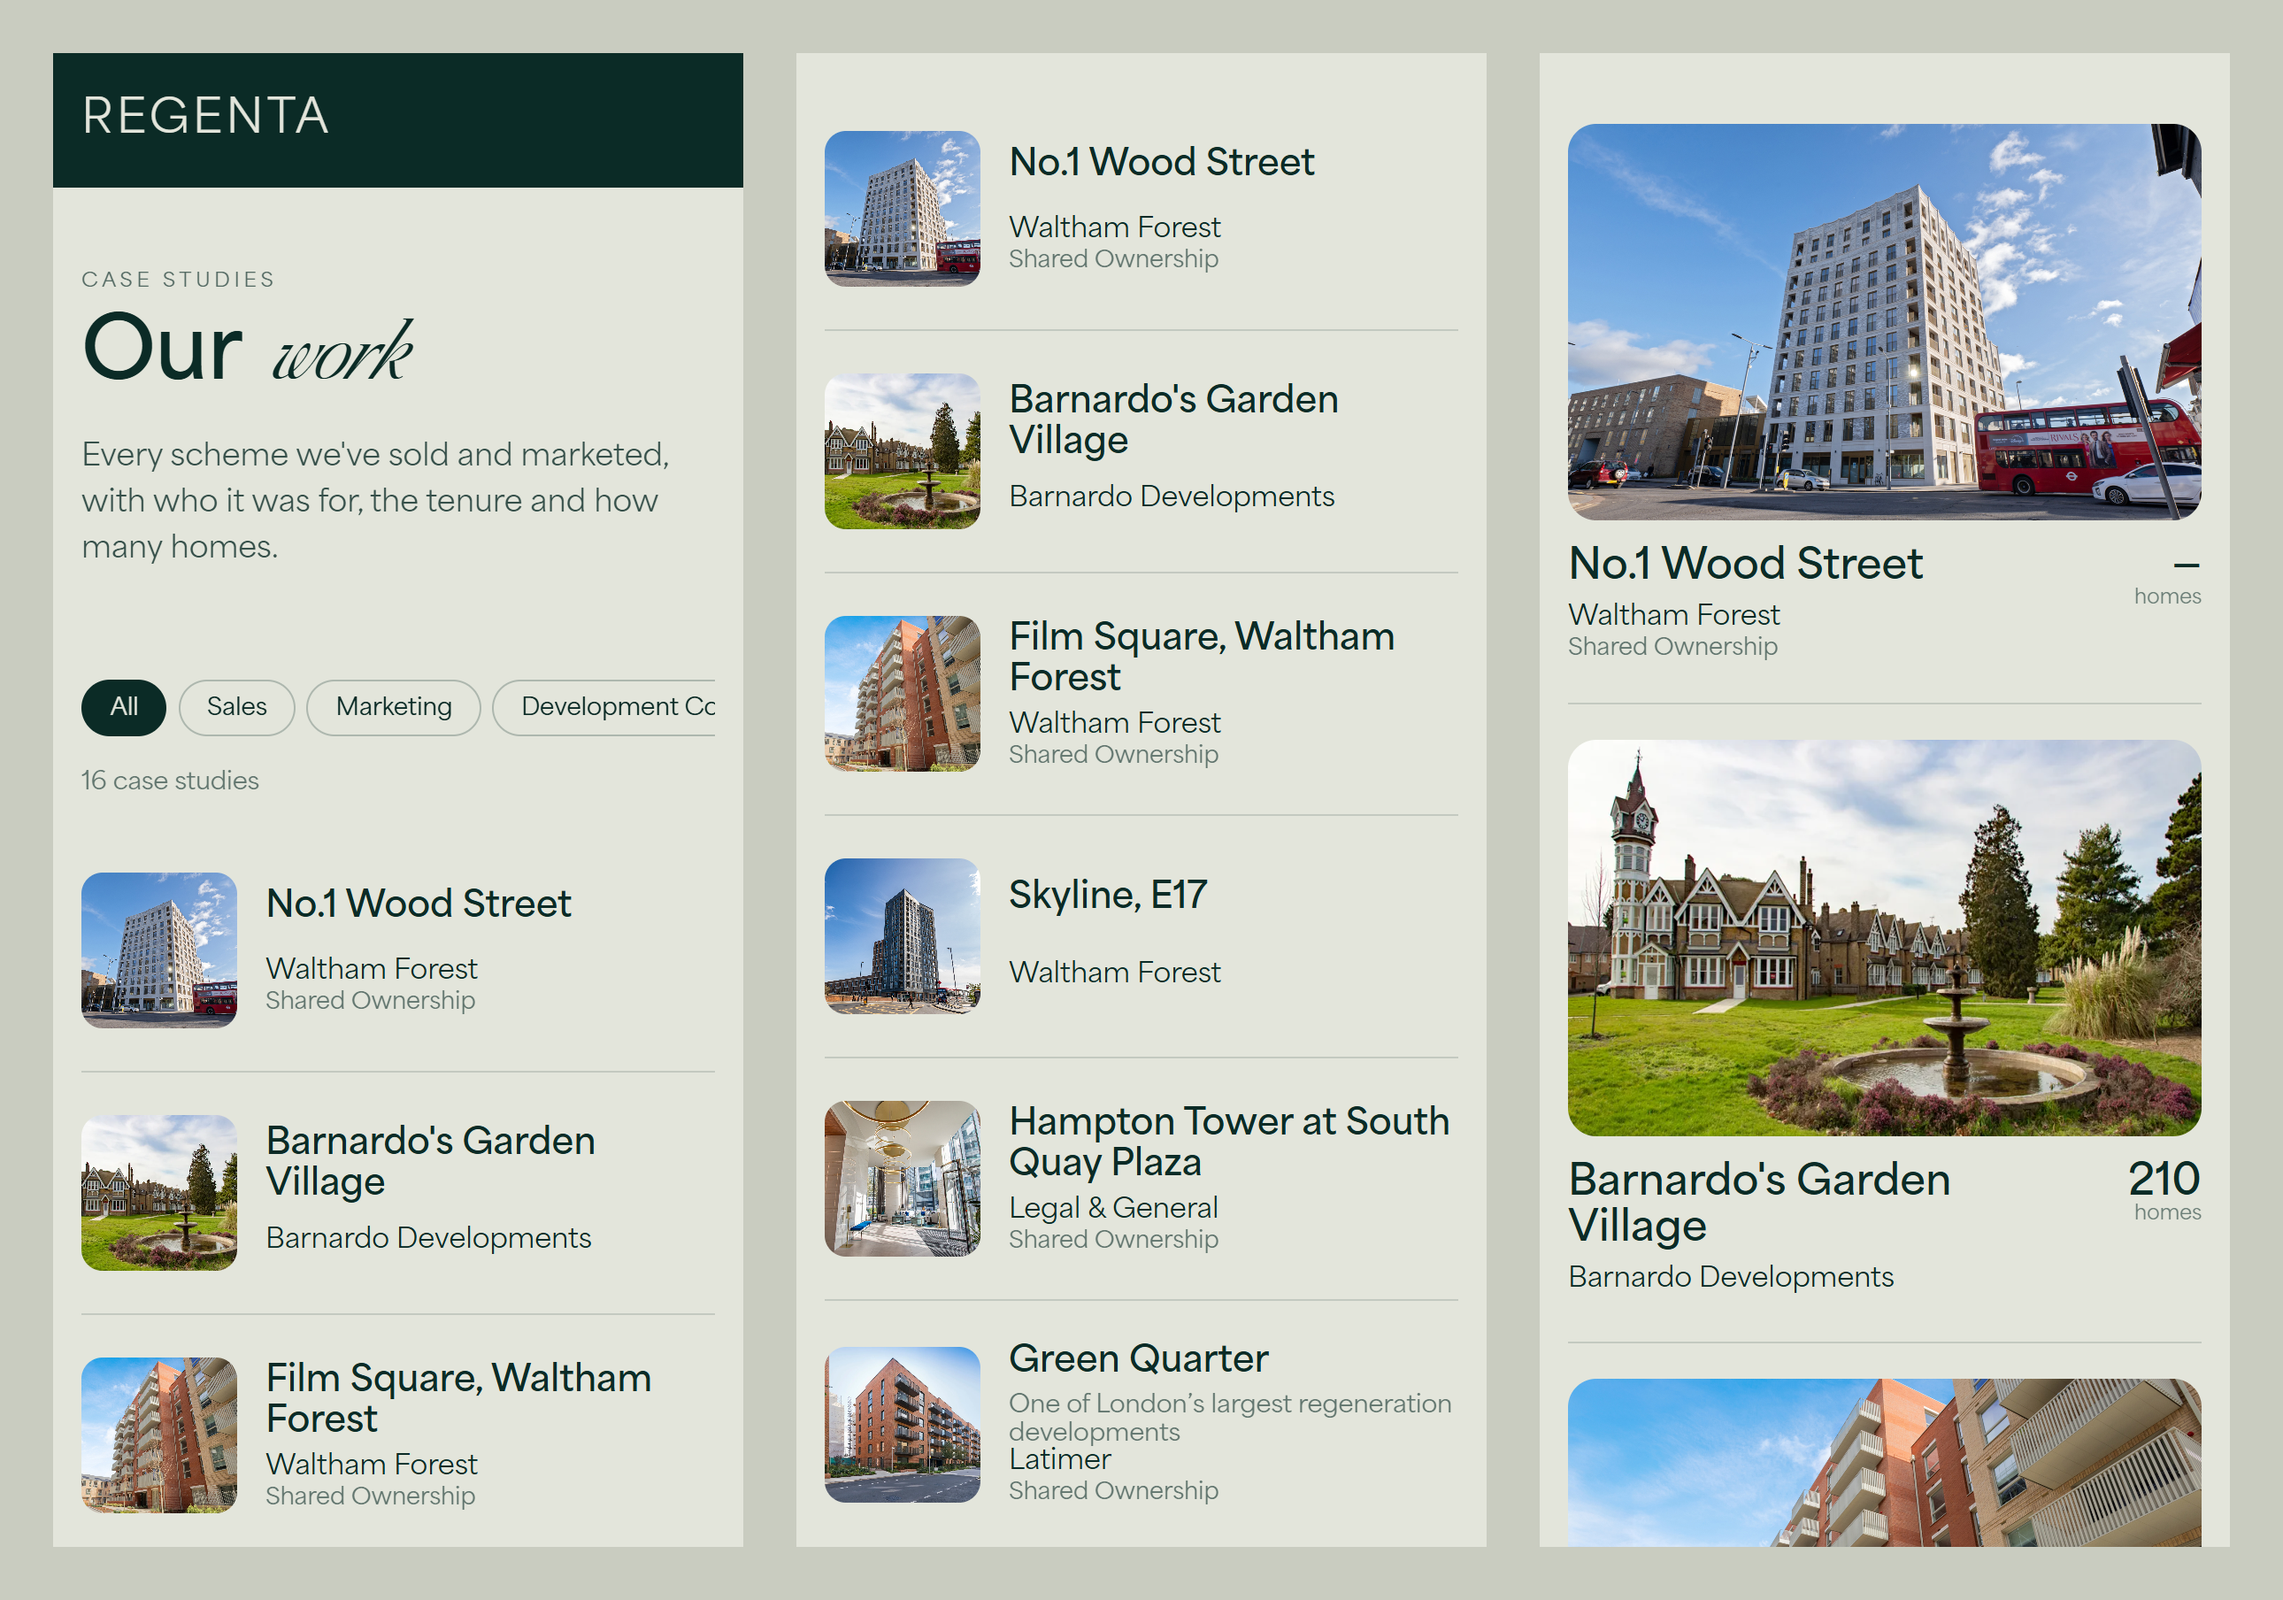
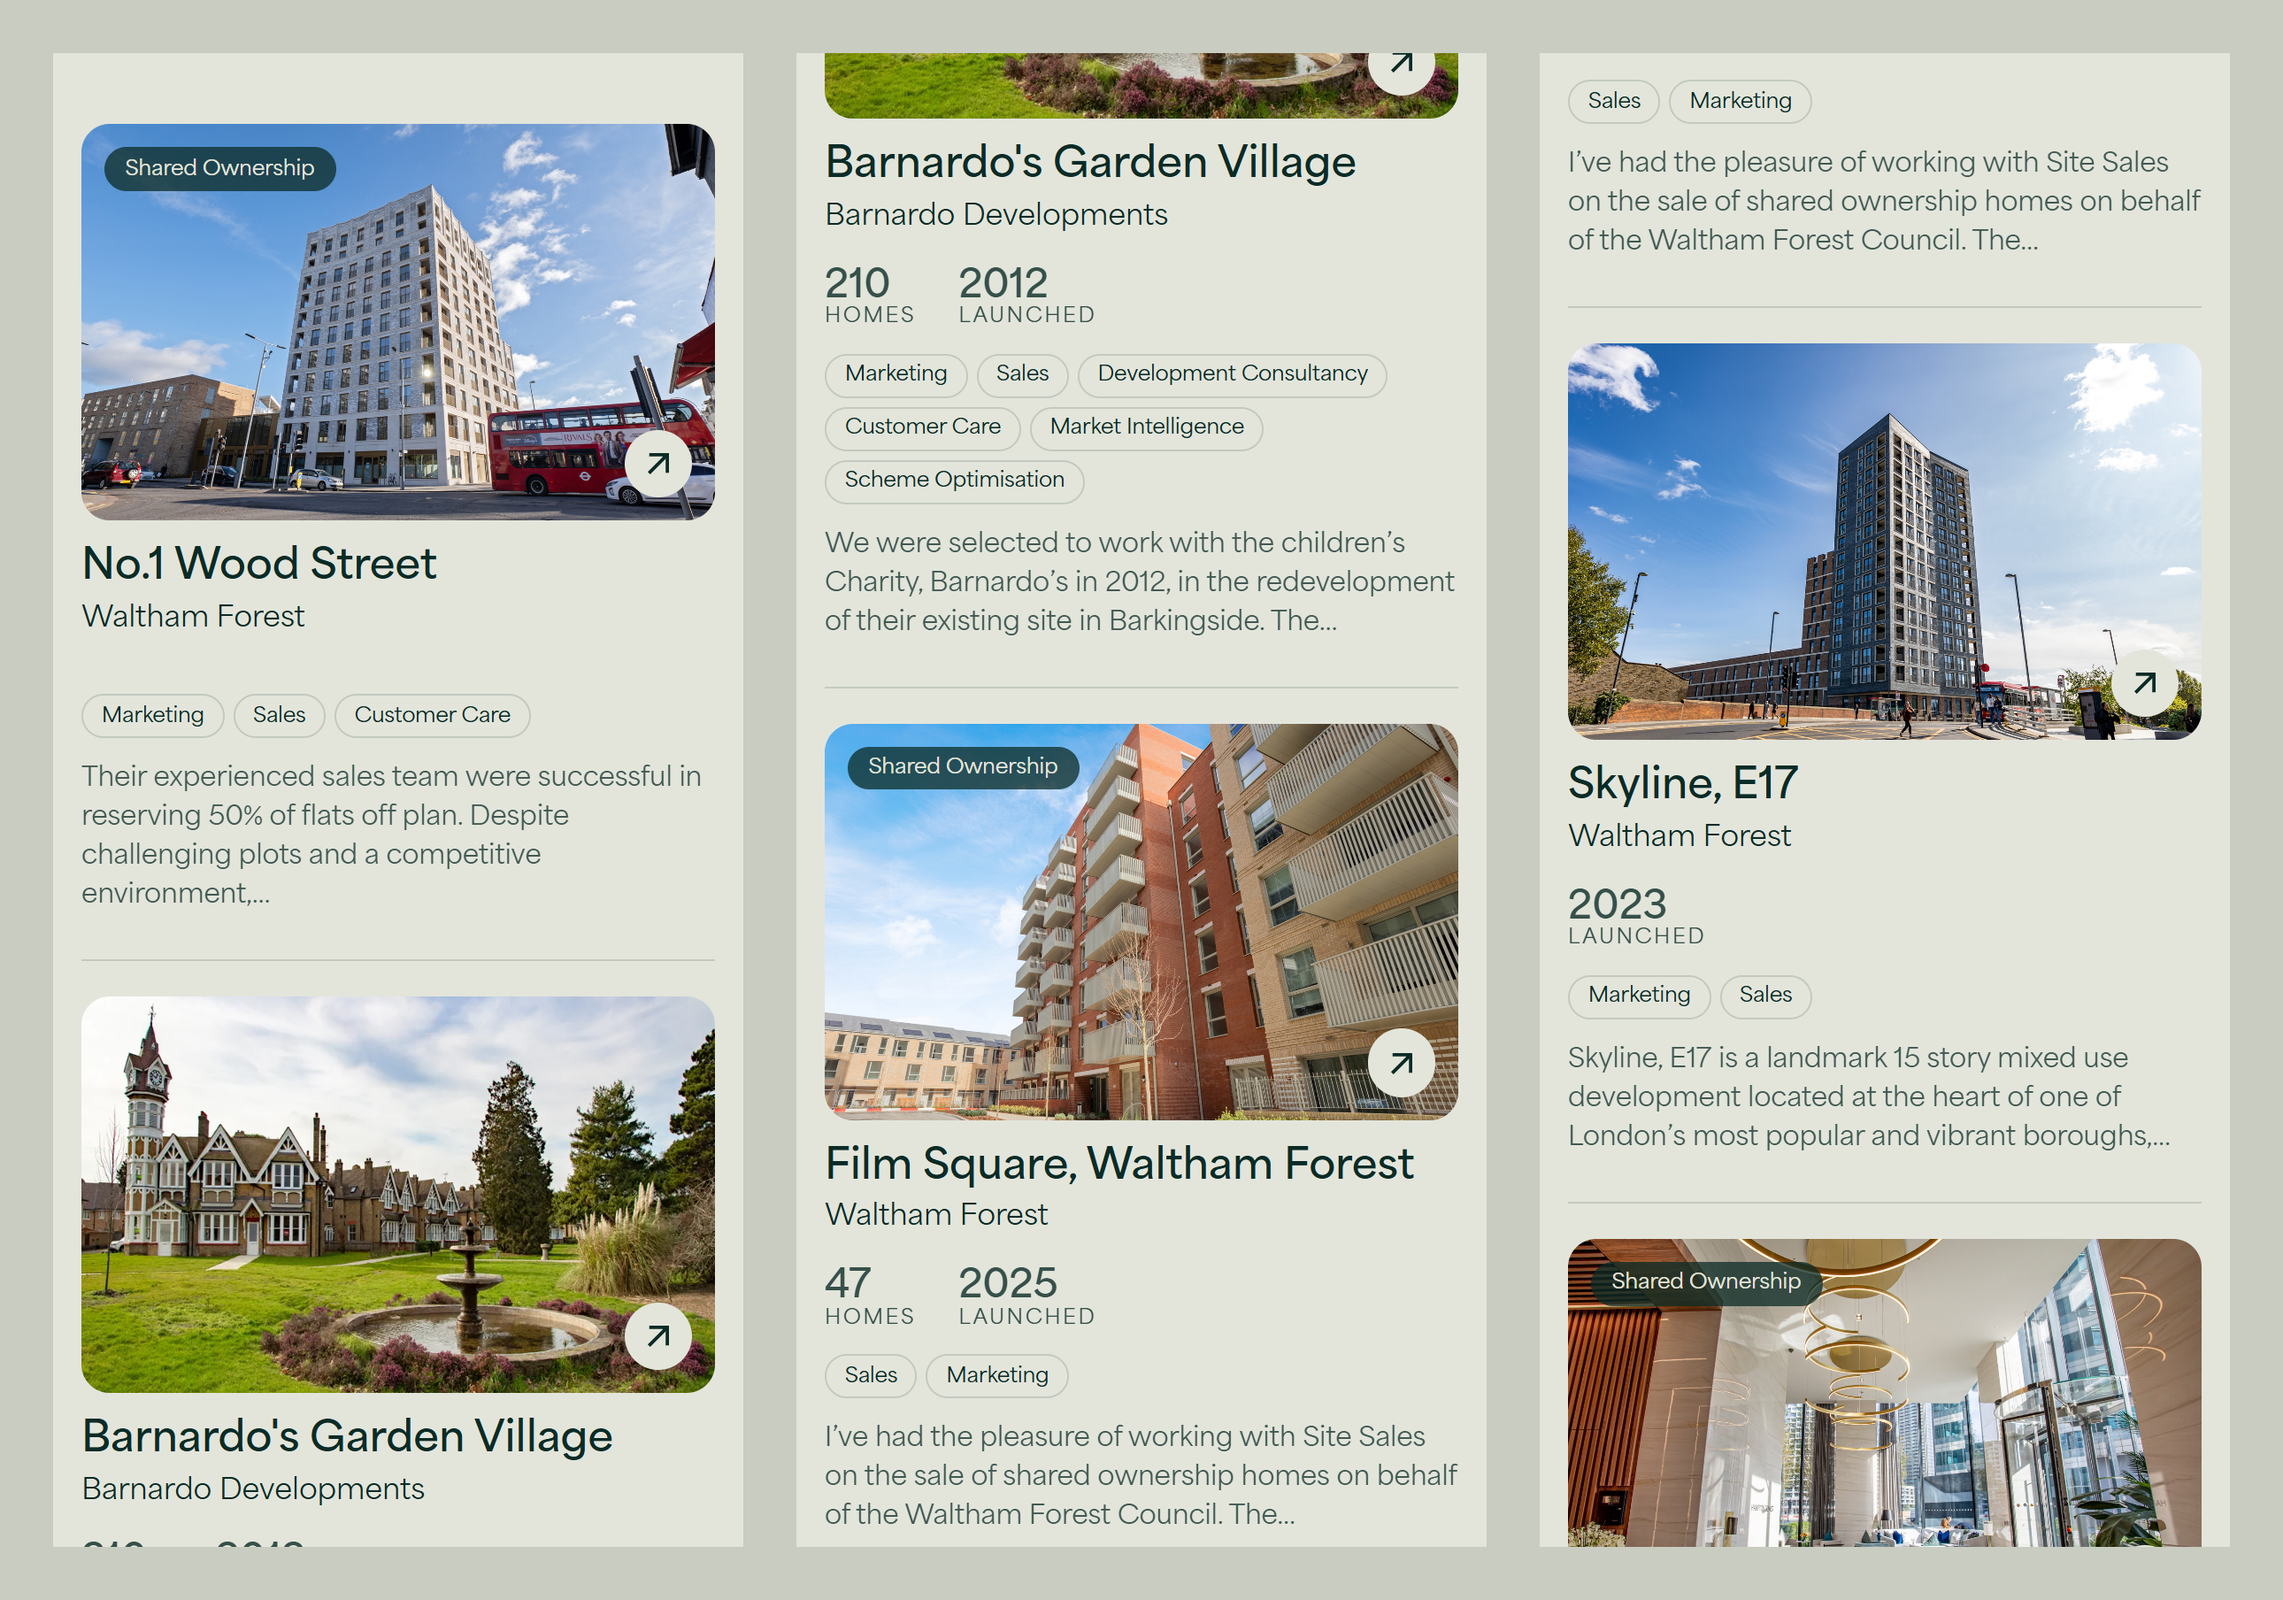
Mock: case studies list B2 phone rows with stats, services and summary

diff --git a/mocks/case-studies-list.html b/mocks/case-studies-list.html
@@ -79,7 +79,7 @@
   .b-row .h { font-size:1.5rem; font-weight:600; text-align:right; } .b-row .h small { display:block; font-size:.7rem; font-weight:400; opacity:.55; }
   .b-row .ar { width:2.6rem; height:2.6rem; border-radius:50%; border:1px solid var(--line); display:grid; place-items:center; transition:background .25s, color .25s; }
   .b-row:hover .ar { background:var(--green); color:var(--sand); }
-  .b-row .th { display:none; }
+  .b-row .th { display:none; } .b-row .m, .b-row .th .tg, .b-row .th .go2 { display:none; }
   .b-peek { position:fixed; width:22rem; height:15rem; border-radius:1rem; overflow:hidden; pointer-events:none; z-index:40; opacity:0; transform:scale(.92); transition:opacity .25s, transform .25s; box-shadow:0 20px 50px rgba(0,0,0,.25); }
   .b-peek.on { opacity:1; transform:none; }
   .b-peek img { width:100%; height:100%; object-fit:cover; }
@@ -132,7 +132,18 @@
     .b-big .b-row .th { grid-row:1; grid-column:1 / -1; width:100%; height:auto; aspect-ratio:16 / 10; border-radius:1rem; margin-bottom:.6rem; }
     .b-big .b-row .t { grid-row:2; grid-column:1; font-size:1.45rem; }
     .b-big .b-row .c { grid-row:3; grid-column:1; margin-top:0; }
-    .b-big .b-row .h { display:block; grid-row:2 / span 2; grid-column:2; align-self:start; }
+    .b-big .b-row { grid-template-columns:1fr; }
+    .b-big .b-row .h { display:none; }
+    .b-big .b-row .th { position:relative; }
+    .b-big .b-row .th .tg { display:block; position:absolute; left:.8rem; top:.8rem; background:rgba(11,43,38,.75); color:var(--sand); border-radius:99px; padding:.4rem .75rem; font-size:.72rem; }
+    .b-big .b-row .th .go2 { display:grid; position:absolute; right:.8rem; bottom:.8rem; width:2.4rem; height:2.4rem; border-radius:50%; background:var(--sand); color:var(--green); place-items:center; }
+    .b-big .b-row .c { font-size:1rem; } .b-big .b-row .c small { display:none; }
+    .b-big .b-row .m { display:block; grid-row:4; grid-column:1; margin-top:.9rem; }
+    .b-big .b-row .m .st { display:inline-flex; flex-direction:column; margin-right:1.5rem; font-size:.7rem; letter-spacing:.12em; text-transform:uppercase; opacity:.8; }
+    .b-big .b-row .m .st b { font-size:1.35rem; letter-spacing:0; text-transform:none; font-weight:600; line-height:1.1; }
+    .b-big .b-row .m .sv { display:flex; flex-wrap:wrap; gap:.3rem; margin-top:.9rem; }
+    .b-big .b-row .m .sv span { font-size:.72rem; border:1px solid var(--line); border-radius:99px; padding:.35rem .65rem; }
+    .b-big .b-row .m .sm { display:block; margin-top:.8rem; font-size:.92rem; line-height:1.5; opacity:.75; }
   }
 </style>
 </head>
@@ -204,11 +215,14 @@ const peek = document.getElementById('b-peek');
 const drawB = (s) => {
   const list = CS.filter((c) => !s || c.services.includes(s));
   document.getElementById('b-list').innerHTML = list.map((c, i) => `<a class="b-row" href="#" data-img="${esc(c.thumb)}">
-    <span class="n">${String(i + 1).padStart(2, '0')}</span><span class="th"><img src="${esc(c.thumb)}" alt=""></span>
+    <span class="n">${String(i + 1).padStart(2, '0')}</span><span class="th"><img src="${esc(c.thumb)}" alt="">${c.tenure ? `<span class="tg">${esc(c.tenure)}</span>` : ''}<span class="go2">${ARROW}</span></span>
     <span class="t">${esc(c.name)}${c.sub ? `<small>${esc(c.sub)}</small>` : ''}</span>
     <span class="c">${esc(c.client || '—')}<small>${esc(c.tenure)}</small></span>
     <span class="s">${c.services.slice(0, 3).map((v) => `<span>${esc(v)}</span>`).join('')}${c.services.length > 3 ? `<span>+${c.services.length - 3}</span>` : ''}</span>
-    <span class="h">${c.homes ? `${esc(c.homes)}<small>homes</small>` : ''}</span><span class="ar">${ARROW}</span></a>`).join('');
+    <span class="h">${c.homes ? `${esc(c.homes)}<small>homes</small>` : ''}</span>
+    <span class="m">${[[c.homes, 'homes'], [(c.launched.match(/\d{4}/) || [''])[0], 'launched']].filter(([v]) => v).map(([v, l]) => `<span class="st"><b>${esc(v)}</b>${l}</span>`).join('')}
+      ${c.services.length ? `<span class="sv">${c.services.map((v) => `<span>${esc(v)}</span>`).join('')}</span>` : ''}
+      ${c.summary ? `<span class="sm">${esc(clip(c.summary, 140))}</span>` : ''}</span><span class="ar">${ARROW}</span></a>`).join('');
   document.getElementById('b-count').textContent = `${list.length} case ${list.length === 1 ? 'study' : 'studies'}`;
 };
 chips(document.getElementById('b-chips'), SERVICES, drawB); drawB('');
